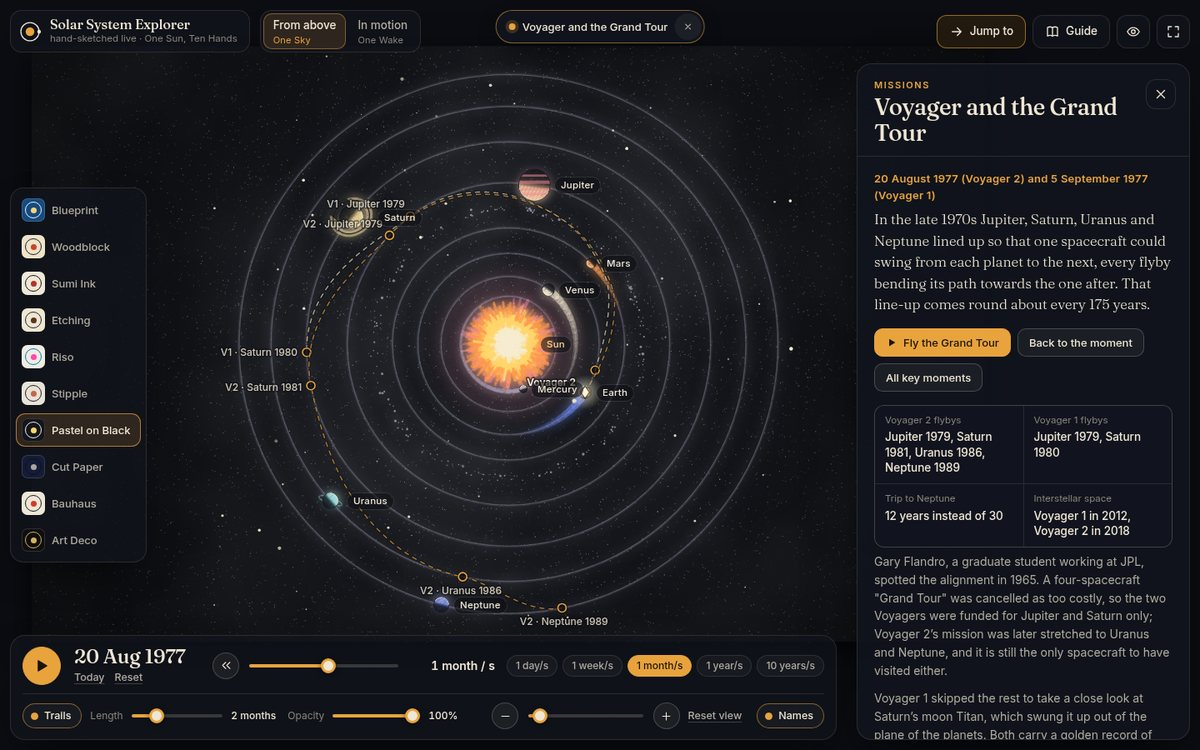
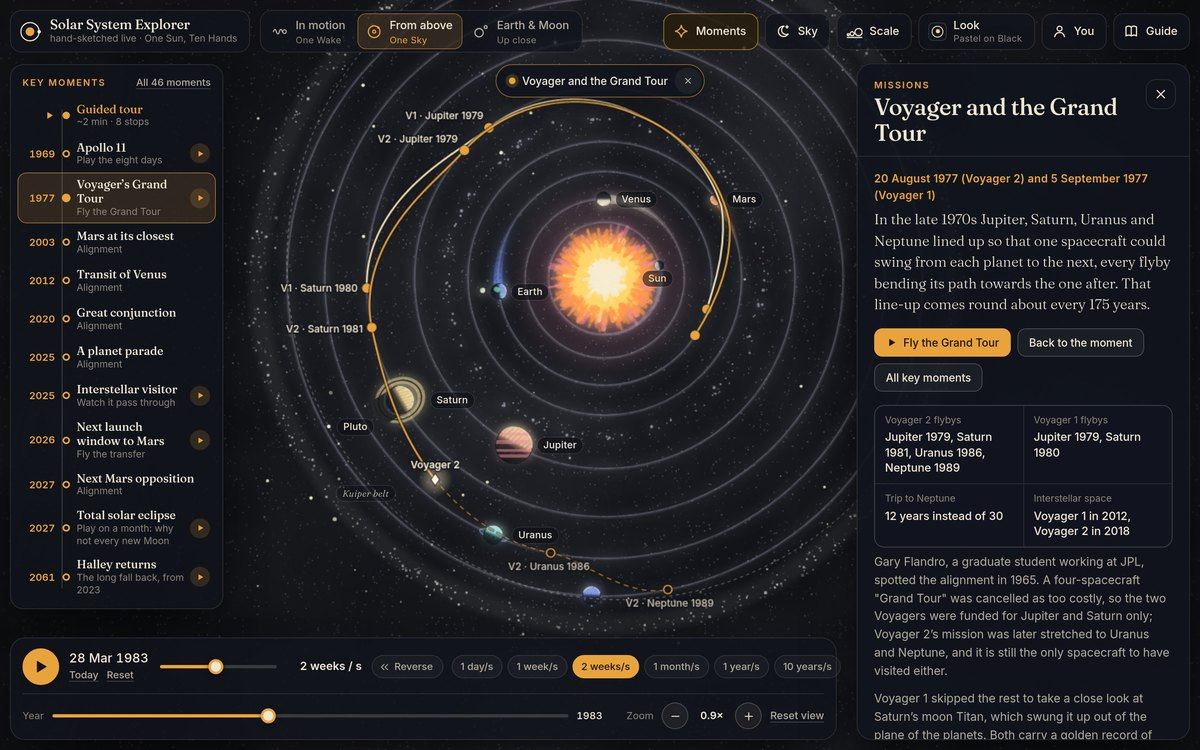
Landing page: the explorer's card shows the explorer as it is now
A fresh picture of the Voyager moment with the three views, the six menus, the key moments and the dock (1440x900
at twice the pixels, scaled to 1200x750), and words for the guided tour and the Sky, Scale and You menus; the page is
rebuilt with `npm run solar:site -- --page-only`.

diff --git a/docs/index.html b/docs/index.html
@@ -126,11 +126,11 @@
     <main>
       <section class="explore" aria-labelledby="explore-title">
         <a class="explore-card" href="explorer/">
-          <img src="images/explorer.jpg" alt="The Solar System Explorer: the pastel solar system drawn live, with the Voyager Grand Tour traced through Jupiter, Saturn, Uranus and Neptune, a card telling its story, a rail of ten styles and controls for time, speed and trails." width="1200" height="750">
+          <img src="images/explorer.jpg" alt="The Solar System Explorer: the pastel solar system drawn live, Voyager 2 flying its Grand Tour past Jupiter and Saturn towards Uranus and Neptune, with the three views and six menus along the top, the key moments down the side, a card telling the story and controls for time and speed." width="1200" height="750">
           <div class="explore-text">
             <p class="eyebrow"><span class="live-dot" aria-hidden="true"></span>Drawn live in your browser</p>
             <h2 class="explore-title" id="explore-title">Explore the live Solar System</h2>
-            <p>The same hand-sketched solar system, running live at the real positions of the planets on any date. Speed time up or run it backwards, switch between the ten styles, trail the planets’ wakes, zoom in, tap any world for its facts, and jump to launch windows, the Voyager Grand Tour and great conjunctions. Then dive into the Earth and the Moon at true scale, for the story of spaceflight from Sputnik to Artemis.</p>
+            <p>The same hand-sketched solar system, running live at the real positions of the planets on any date. Speed time up or run it backwards, watch it in motion or from above in ten styles, and tap any world for its facts. Take the guided tour or jump to key moments from the Voyager Grand Tour to the 2027 eclipse; look up at tonight’s sky, the Moon and the comets; see the planets’ true sizes out to Pluto; find your age on every planet and your years drawn as a helix. Then dive into the Earth and the Moon at true scale, for the story of spaceflight from Sputnik to Artemis.</p>
             <span class="explore-go">Open the explorer <span aria-hidden="true">→</span></span>
           </div>
         </a>
